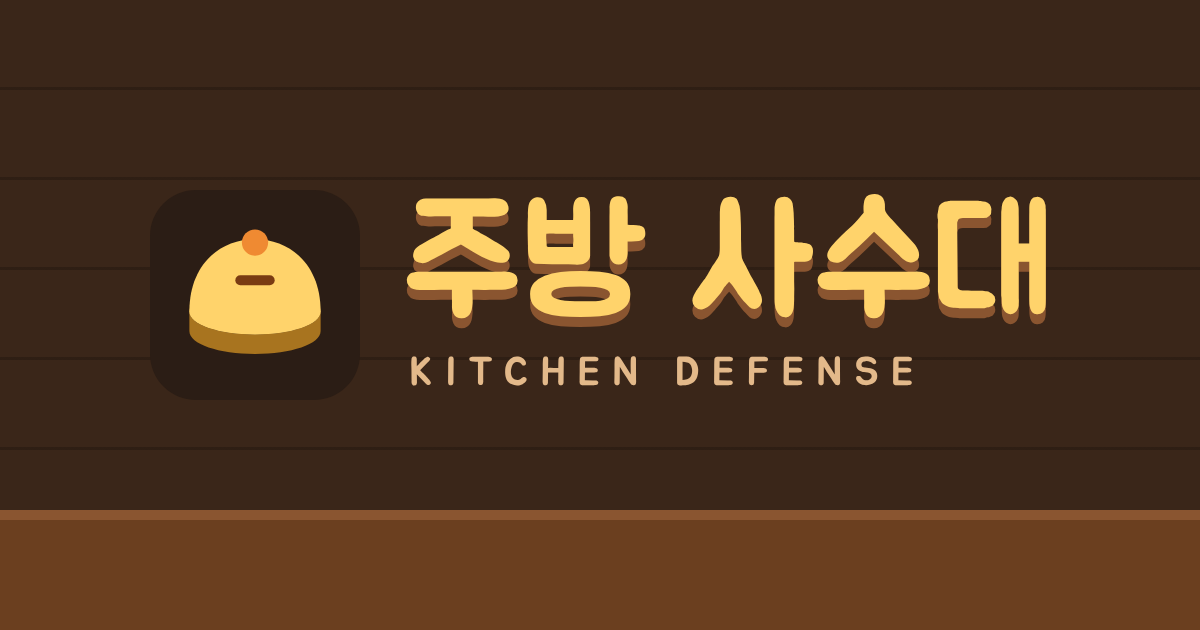
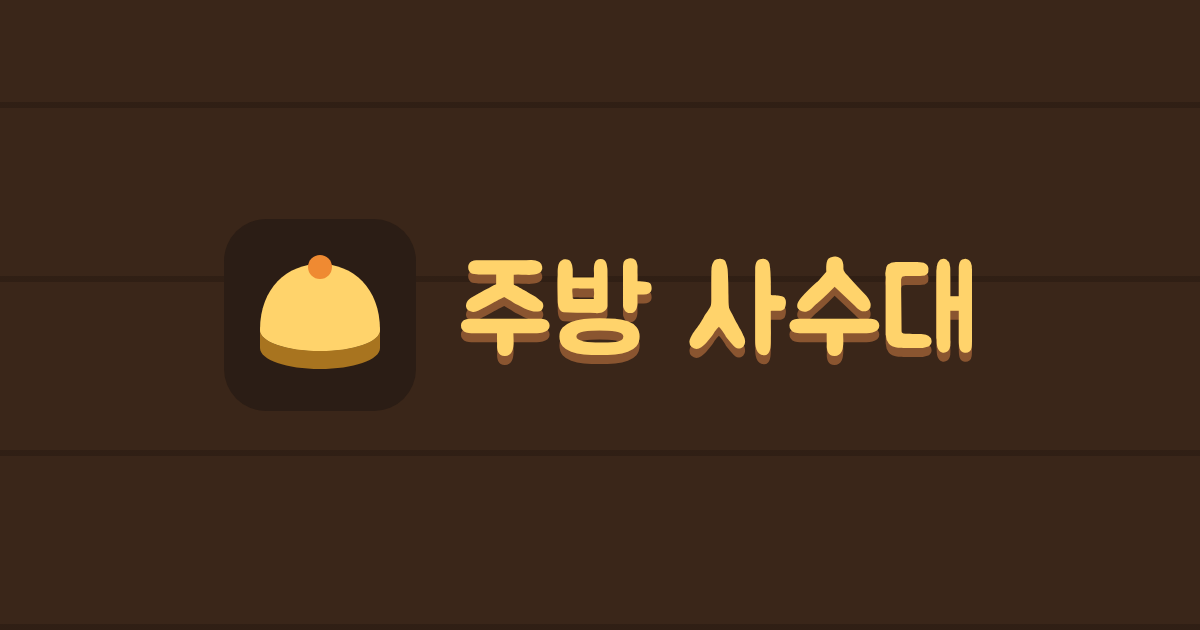
주방 사수대: 시안 1번 그대로 다시 적용 + 타워 최대 15개 (#1924)
첫 화면·상단 표시·프로토타입 카드를 시안 1번과 같게. 타워 동시 설치 최대 15개(TMAX), 같이 하기는 방장 판정.

Changed region(s): [[0.0, 0.7841, 1.0, 1.0], [0.3392, 0.3016, 0.8942, 0.6333], [0.1542, 0.3619, 0.3392, 0.6032]]

diff --git a/prototypes/kitchendefense/index.html b/prototypes/kitchendefense/index.html
@@ -9,7 +9,7 @@
 <meta name="viewport" content="width=device-width,initial-scale=1,maximum-scale=1,user-scalable=no">
 <title>Kitchen Defense · 주방 사수대</title>
 <link rel="preconnect" href="https://fonts.googleapis.com">
-<link href="https://fonts.googleapis.com/css2?family=Jua&family=Noto+Sans+KR:wght@700;900&display=swap" rel="stylesheet">
+<link href="https://fonts.googleapis.com/css2?family=Jua&family=Gowun+Dodum&family=Noto+Sans+KR:wght@700;900&display=swap" rel="stylesheet">
 <style>
 html,body{margin:0;height:100%;background:#2b1d15;overflow:hidden}
 body{display:flex;align-items:center;justify-content:center}
@@ -28,6 +28,8 @@ canvas{display:block;touch-action:none;user-select:none;-webkit-user-select:none
 <script>
 'use strict';
 const W=960,H=660,TS=60,MY=40,COLS=16,ROWS=8;
+const TMAX=15;/* 동시에 설치할 수 있는 타워 수 (같이 하기는 모두 합쳐서) */
+const tFull=()=>G.towers.length>=TMAX;
 const cv=document.getElementById('c');let g=cv.getContext('2d');
 cv.width=W;cv.height=H;
 {const CP=CanvasRenderingContext2D.prototype;if(!CP.roundRect)CP.roundRect=function(x,y,w,h,r){this.moveTo(x+r,y);this.arcTo(x+w,y,x+w,y+h,r);this.arcTo(x+w,y+h,x,y+h,r);this.arcTo(x,y+h,x,y,r);this.arcTo(x,y,x+w,y,r);this.closePath()}}
@@ -115,7 +117,7 @@ const BUT='#ffd36b',LEDGE='#b8892e',INK='#2b1d15',CREAM='#f6ead6',TAN='#e3b98a';
 function btn(x,y,w,h,label,o={}){
   const hov=mouse.x>=x&&mouse.x<=x+w&&mouse.y>=y&&mouse.y<=y+h;
   if(hov)hoverAny=true;
-  const ghost=o.ghost,soft=!ghost&&GHOSTC[o.col],press=hov&&click,yy=y+(press?2:0),r=Math.min(14,h/2);
+  const ghost=o.ghost,soft=!ghost&&GHOSTC[o.col],press=hov&&click,yy=y+(press?2:0),r=o.r||Math.min(14,h/2);
   let tc='#fff',sh='';
   g.save();g.lineWidth=1.5;
   if(o.on){
@@ -123,12 +125,12 @@ function btn(x,y,w,h,label,o={}){
   }else if(o.dim){
     g.beginPath();g.roundRect(x,yy,w,h,r);g.fillStyle='rgba(246,234,214,.05)';g.fill();g.strokeStyle='rgba(227,185,138,.16)';g.stroke();tc='#a39685';
   }else if(ghost){
-    g.beginPath();g.roundRect(x+1,yy+1,w-2,h-2,r);g.fillStyle=hov?'rgba(246,234,214,.10)':'rgba(43,29,21,.25)';g.fill();g.lineWidth=2;g.strokeStyle=hov?CREAM:TAN;g.stroke();tc=CREAM;
+    g.beginPath();g.roundRect(x+1,yy+1,w-2,h-2,r);if(hov){g.fillStyle='rgba(246,234,214,.10)';g.fill()}g.lineWidth=o.bw||2;g.strokeStyle=hov?CREAM:TAN;g.stroke();tc=CREAM;
   }else if(soft){
     g.beginPath();g.roundRect(x,yy,w,h,r);g.fillStyle=hov?'rgba(246,234,214,.2)':'rgba(246,234,214,.12)';g.fill();tc=CREAM;
   }else{
     const def=!o.col||o.col==='#ff9a3c',base=def?BUT:(PAL[o.col]||o.col);
-    if(!press){g.beginPath();g.roundRect(x,y+4,w,h,r);g.fillStyle=def?LEDGE:shade(base,-60);g.fill()}
+    if(!press){g.beginPath();g.roundRect(x,y+(o.lg||4),w,h,r);g.fillStyle=def?LEDGE:shade(base,-60);g.fill()}
     g.beginPath();g.roundRect(x,yy+(press?2:0),w,h,r);g.fillStyle=hov?shade(base,16):base;g.fill();
     if(def)tc=INK;
   }
@@ -136,14 +138,14 @@ function btn(x,y,w,h,label,o={}){
   const lines=String(label).split('\n'),fs=o.fs||24,cx=x+w/2+(o.pad||0);
   lines.forEach((ln,i)=>{
     const ty=yy+h/2+(i-(lines.length-1)/2)*(fs*1.12),sz=i?fs*.82:fs;
-    if(sh)txt(ln,cx,ty+1.5,sz,sh,'center','');
-    txt(ln,cx,ty,sz,i&&!o.on&&!o.dim?(o.c2||(sh?'rgba(255,255,255,.88)':'#d9c3a0')):tc,'center','');
+    if(sh)txt(ln,cx,ty+1.5,sz,sh,'center','',0,true);
+    txt(ln,cx,ty,sz,i&&!o.on&&!o.dim?(o.c2||(sh?'rgba(255,255,255,.88)':'#d9c3a0')):tc,'center','',0,true);
   });
   if(click&&click.x>=x&&click.x<=x+w&&click.y>=y&&click.y<=y+h){click=null;blip();return true}
   return false;
 }
 function panel(x,y,w,h,r=14,a=.55){g.save();g.beginPath();g.roundRect(x,y,w,h,r);g.fillStyle='rgba(31,21,15,'+Math.min(.92,a+.2)+')';g.fill();g.lineWidth=1.5;g.strokeStyle='rgba(227,185,138,.22)';g.stroke();g.restore()}
-function chip(x,y,w,h){g.beginPath();g.roundRect(x,y,w,h,h/2);g.fillStyle='rgba(58,38,25,.88)';g.fill();g.lineWidth=1;g.strokeStyle='rgba(227,185,138,.22)';g.stroke()}
+function chip(x,y,w,h){g.beginPath();g.roundRect(x,y,w,h,h/2);g.fillStyle='#3a2619';g.fill()}
 function heading(s,x,y,size){txt(s,x,y+Math.max(4,size*.06),size,'#8a5530','center','');txt(s,x,y,size,BUT,'center','')}
 let toastMsg='',toastT=0;
 function toast(m){toastMsg=m;toastT=2}
@@ -840,6 +842,7 @@ function exec(c,pid){
   if(c.k==='place'){
     if(!TD[c.type]||!G.unl.towers[c.type])return;
     if(BLOCK.has(c.c+','+c.r)||towerAt(c.c,c.r)){say('여긴 설치할 수 없어요');return}
+    if(tFull()){say('타워는 최대 '+TMAX+'개까지예요');return}
     const d=TD[c.type];
     if(G.coins<d.cost){say('코인이 부족해요');return}
     G.coins-=d.cost;const t=addTower(c.type,c.c,c.r);sfx(500,.1,'triangle',.3,200);burst(t.x,t.y+10,'#d8c8a8',8,60);
@@ -1197,10 +1200,10 @@ function tilesBG(){
   tilesBG0();
 }
 function tilesBG0(){
+  const k=W/760;
   g.fillStyle='#3a2619';g.fillRect(0,0,W,H);
-  for(let y=0,i=0;y<H;y+=58,i++){g.fillStyle=i%2?'rgba(255,230,190,.025)':'rgba(0,0,0,.05)';g.fillRect(0,y,W,58);g.fillStyle='rgba(0,0,0,.2)';g.fillRect(0,y+56,W,2);for(let k=0;k<3;k++){const sx=(i*311+k*347)%W;g.fillRect(sx,y,2,56)}}
-  g.fillStyle='#6b3f1f';g.fillRect(0,H-96,W,96);g.fillStyle='#8a5530';g.fillRect(0,H-102,W,6);
-  const gr=g.createRadialGradient(W*.4,H*.32,60,W*.4,H*.32,W*.8);gr.addColorStop(0,'rgba(255,190,110,.10)');gr.addColorStop(1,'rgba(0,0,0,.38)');g.fillStyle=gr;g.fillRect(0,0,W,H);
+  g.fillStyle='rgba(0,0,0,.18)';for(let y=H;y>0;y-=58*k)g.fillRect(0,y-2*k,W,2*k);
+  g.fillStyle='#6b3f1f';g.fillRect(0,H-120*k,W,120*k);g.fillStyle='#8a5530';g.fillRect(0,H-120*k,W,6*k);
 }
 function coin(x,y,r){
   g.beginPath();g.arc(x,y,r,0,7);g.fillStyle=lg(x-r,y-r,x+r,y+r,'#fff0a0','#ffd23c','#c8901c');g.fill();
@@ -1268,34 +1271,59 @@ function drawMap(){
 }
 
 /* ===== 장면: 메뉴 ===== */
-const menuFoods=[];
-for(let i=0;i<9;i++)menuFoods.push({k:['egg','carrot','melon','pepper','mushroom','cabbage'][i%6],x:rnd(0,640),y:rnd(250,H-50),sp:rnd(20,45),r:rnd(18,28),ph:rnd(0,6)});
+const LOGO_P=[new Path2D('M12 37v6c0 4 9 7 20 7s20-3 20-7v-6c0 4-9 7-20 7s-20-3-20-7z'),new Path2D('M12 37c0-14 9-22 20-22s20 8 20 22c0 4-9 7-20 7s-20-3-20-7z')];
+const TOM_L=new Path2D('M20 12c4 4 12 4 16 0l-8 8z'),GAR_P=new Path2D('M23 4c12 0 19 14 19 30s-8 24-19 24S4 50 4 34 11 4 23 4z');
+function drawLogo(x,y,sz){
+  g.save();g.translate(x,y);g.scale(sz/64,sz/64);
+  g.fillStyle='#2b1d15';g.beginPath();g.roundRect(0,0,64,64,14);g.fill();
+  g.fillStyle='#d9a441';g.beginPath();g.ellipse(32,37,20,7,0,0,7);g.fill();
+  g.fillStyle='#a8741f';g.fill(LOGO_P[0]);g.fillStyle='#ffd36b';g.fill(LOGO_P[1]);
+  g.fillStyle='#ef8a32';g.beginPath();g.arc(32,16,4,0,7);g.fill();
+  g.restore();
+}
+function spaced(str,x,y,size,col,sp){g.font=size+'px '+FONT;g.textAlign='left';g.textBaseline='middle';g.fillStyle=col;for(const ch of str){g.fillText(ch,x,y);x+=g.measureText(ch).width+sp}}
 let menuT=0;
 function sMenu(dt){
   menuT+=dt;setMap(0);tilesBG();
-  for(const f of menuFoods){
-    f.x+=f.sp*dt;if(f.x>660)f.x=-40;
-    const y=f.y+Math.sin(menuT*2+f.ph)*6;
-    ell(f.x,y+f.r,f.r*.8,f.r*.22,'rgba(0,0,0,.15)');
-    if(LOW){const sp=sprite(f.k,Math.round(f.r),-1);g.drawImage(sp.c,f.x-sp.h,y-sp.h,sp.h*2,sp.h*2)}else{drawBody(f.k,f.x,y,f.r);face(f.x,y+f.r*(FACEOFF[f.k]||0),f.r*.9)}
-  }
-  [...'주방 사수대'].forEach((ch,i)=>{if(ch===' ')return;g.save();g.translate(W/2+[-2.35,-1.35,0,0,1,2][i]*98+14,125+Math.sin(menuT*2.4+i*.8)*9);g.rotate(Math.sin(menuT*1.7+i)*.08);txt(ch,0,8,104,'#8a5530','center','');txt(ch,0,0,104,BUT,'center','');g.restore()});
-  drawHat(W/2+236,46+Math.sin(menuT*2.4+5)*9,1.3,.3);
-  txt(['반란 식재료로부터 냉장고를 지켜라!','달걀은 죄가 없다. 하지만 막아야 한다','오늘 저녁은 너희다','당근이 화났다','양배추왕이 온다...'][Math.floor(menuT/4)%5],W/2,205,26,'#f3dcb4','center','');
-  const bx=W-290;
-  if(btn(bx,245,250,70,'플레이',{fs:34}))scene='mode';
-  if(btn(bx,330,250,70,'강화',{fs:34,ghost:1}))scene='upgrade';
-  if(btn(bx,415,250,70,'도전과제',{fs:34,col:'#d9a441'}))scene='ach';
-  if(btn(bx,500,250,70,'설정',{fs:34,col:'#6aa8d8'})){scene='settings';resetAsk=false}
-  panel(24,H-86,216,62,14,.6);
-  txt('보유 PT  '+save.pt,42,H-66,20,'#ffe27a','left','');
-  txt('최고 웨이브  '+save.best,42,H-42,18,'#d9c3a0','left','');
+  const k=W/760,X=v=>v*k;
+  // 냉장고
+  const fx=X(554),fy=X(177),fw=X(150),fh=X(250);
+  g.save();g.beginPath();g.roundRect(fx,fy,fw,fh,X(16));g.clip();
+  g.fillStyle='#e9e1d2';g.fillRect(fx,fy,fw,fh);g.fillStyle='#c9bfae';g.fillRect(fx,fy+fh-X(6),fw,X(6));g.fillRect(fx,fy+X(84),fw,X(4));
+  g.fillStyle='#a69c8b';g.beginPath();g.roundRect(fx+X(14),fy+X(30),X(8),X(34),X(4));g.roundRect(fx+X(14),fy+X(112),X(8),X(50),X(4));g.fill();
+  g.restore();
+  // 토마토, 마늘
+  g.save();g.translate(X(330),X(523-112-56));g.scale(k,k);
+  g.fillStyle='#d9483b';g.beginPath();g.arc(28,32,22,0,7);g.fill();g.fillStyle='#5c9a3c';g.fill(TOM_L);
+  g.fillStyle='#2b1d15';g.beginPath();g.arc(21,30,3,0,7);g.arc(35,30,3,0,7);g.fill();g.restore();
+  g.save();g.translate(X(404),X(523-112-60));g.scale(k,k);
+  g.fillStyle='#f2ead8';g.fill(GAR_P);g.strokeStyle='#d6cdb8';g.lineWidth=2;g.beginPath();g.moveTo(23,4);g.lineTo(23,58);g.stroke();
+  g.fillStyle='#2b1d15';g.beginPath();g.arc(16,32,3,0,7);g.arc(30,32,3,0,7);g.fill();g.restore();
+  // 로고 + 제목 + 부제
+  const rowH=87.6,cy=64+rowH/2;
+  drawLogo(X(56),X(cy-38),X(76));
+  g.font=X(64)+'px '+FONT;g.textAlign='left';g.textBaseline='middle';
+  g.fillStyle='#8a5530';g.fillText('주방 사수대',X(148),X(96+4));g.fillStyle='#ffd36b';g.fillText('주방 사수대',X(148),X(96));
+  spaced('KITCHEN DEFENSE',X(148),X(64+66+10.8),X(18),'#e3b98a',X(18*.32));
+  // 버튼
+  const bx=X(56),bw=X(260);let by=X(64+rowH+22);
+  if(btn(bx,by,bw,X(52),'혼자 하기',{fs:X(22),r:X(14),lg:X(4)})){NET.pend='solo';scene='maps'}
+  by+=X(52+10);
+  if(btn(bx,by,bw,X(48),'같이 하기',{fs:X(20),r:X(14),ghost:1}))scene='mode';
+  by+=X(48+10);
+  const sw=(bw-X(10)*2)/3;
+  if(btn(bx,by,sw,X(44),'강화',{fs:X(17),r:X(12),col:'#d9a441'}))scene='upgrade';
+  if(btn(bx+sw+X(10),by,sw,X(44),'업적',{fs:X(17),r:X(12),col:'#d9a441'}))scene='ach';
+  if(btn(bx+(sw+X(10))*2,by,sw,X(44),'설정',{fs:X(17),r:X(12),col:'#6aa8d8'})){scene='settings';resetAsk=false}
+  // 최고 기록
+  g.font=X(13)+"px 'Gowun Dodum',"+FONT2;g.textAlign='left';g.textBaseline='middle';g.fillStyle='#e3c7a4';g.fillText('최고 기록 · '+save.best+'웨이브',X(56),X(523-20-9.75));
+  // 계정 · 칭호 (오른쪽 위)
   if(window.FFAuth){
     let u=null,nm='';try{u=FFAuth.user();if(u)nm=FFAuth.nickname()||''}catch(e){}
-    if(u){if(btn(24,20,210,44,'👤 '+(String(nm||'내 계정').slice(0,10)),{fs:18,col:'#6f8fb0'})){try{FFAuth.openProfile(u.id,{game:'kitchendefense'})}catch(e){}}}
-    else if(btn(24,20,150,44,'로그인',{fs:20,col:'#6f8fb0'})){try{FFAuth.openLogin()}catch(e){}}
+    if(u){if(btn(W-24-200,20,200,44,String(nm||'내 계정').slice(0,10),{fs:20,col:'#6f8fb0'})){try{FFAuth.openProfile(u.id,{game:'kitchendefense'})}catch(e){}}}
+    else if(btn(W-24-130,20,130,44,'로그인',{fs:20,col:'#6f8fb0'})){try{FFAuth.openLogin()}catch(e){}}
   }
-  const tt=ACH.find(a=>a.id===save.title);if(tt)txt('칭호  '+tt.t,30,84,18,'#ffd36b','left','');
+  const tt=ACH.find(a=>a.id===save.title);if(tt){g.font="16px 'Gowun Dodum',"+FONT2;g.textAlign='right';g.textBaseline='middle';g.fillStyle='#e3c7a4';g.fillText('칭호 · '+tt.t,W-26,84)}
 }
 
 function sDevice(){
@@ -1470,6 +1498,7 @@ function mapClick(x,y){
   if(G.sel){
     if(ex){G.sel=null;G.selT=ex;return}
     if(BLOCK.has(c+','+r)){toast('여긴 설치할 수 없어요');return}
+    if(tFull()){toast('타워는 최대 '+TMAX+'개까지예요');return}
     if(G.coins<TD[G.sel].cost){toast('코인이 부족해요');return}
     act({k:'place',type:G.sel,c,r});
   }else{G.selT=ex||null;if(!ex&&isTouch){const e=enemyAt(x,y);if(e){G.insp=e.id;G.inspT=G.t+3}else G.inspT=0}}
@@ -1600,10 +1629,8 @@ function playUI(dt){
     txt(b.s,0,0,76,b.boss?'#ff6b6b':'#fff3b0','center','#3b1d0a',14);
     txt(b.sub,0,56,34,b.boss?'#ffd23c':'#ffffff','center','#3b1d0a',8);g.restore();
   }
-  chip(8,5,86,30);txt('♥ '+G.hp,20,20,20,'#ff9a9a','left','');
-  chip(102,5,122,30);coin(120,20,9);txt(String(Math.floor(G.coins)),136,20,20,'#ffe27a','left','');
-  chip(232,5,112,30);txt('웨이브 '+G.wave,244,20,18,'#fff','left','');
-  if(G.coop)NET.ids.forEach((id,i)=>{const x=372+i*28;g.fillStyle=PCOL[id];g.beginPath();g.arc(x,20,10,0,7);g.fill();g.strokeStyle='#3b1d0a';g.lineWidth=2;g.stroke();txt(String(id+1),x,21,13,'#fff')});
+  let hx=8;for(const[l,c]of[['코인 '+Math.floor(G.coins),'#ffd36b'],['웨이브 '+G.wave,'#f6ead6'],['냉장고 '+G.hp,'#f19a8a'],['타워 '+G.towers.length+'/'+TMAX,tFull()?'#ffd36b':'#f6ead6']]){g.font='17px '+FONT;const w=g.measureText(l).width+20;g.beginPath();g.roundRect(hx,5,w,30,15);g.fillStyle='#3a2619';g.fill();txt(l,hx+10,21,17,c,'left','',0,true);hx+=w+6}
+  if(G.coop)NET.ids.forEach((id,i)=>{const x=hx+10+i*24;g.fillStyle=PCOL[id];g.beginPath();g.arc(x,20,10,0,7);g.fill();g.strokeStyle='#3b1d0a';g.lineWidth=2;g.stroke();txt(String(id+1),x,21,13,'#fff')});
   RES.forEach((k,i)=>{const x=500+i*75;chip(x,5,69,30);icon(k,x+16,20,10);txt(String(G.res[k]),x+32,20,18,'#fff','left','')});
   if(G.feast>0)txt('풍년 잔치! '+Math.ceil(G.feast)+'s',W/2,MY+70,26,'#8dff8d');
   const bs=G.over?null:G.enemies.find(e=>isBoss(e)&&!e.dead);
@@ -1666,7 +1693,7 @@ function playUI(dt){
     for(const id of TORDER){
       if(!G.unl.towers[id])continue;
       const d=TD[id];
-      if(btn(x,by+6,88,50,d.n+'\n'+d.cost,{on:G.sel===id,dim:G.coins<d.cost&&G.sel!==id,fs:17,ghost:1,c2:'#ffd36b'}))G.sel=G.sel===id?null:id;
+      if(btn(x,by+6,88,50,d.n+'\n'+d.cost,{on:G.sel===id,dim:(G.coins<d.cost||tFull())&&G.sel!==id,fs:17,ghost:1,c2:'#ffd36b'})){if(tFull()&&G.sel!==id)toast('타워는 최대 '+TMAX+'개까지예요');else G.sel=G.sel===id?null:id}
       x+=92;
     }
     const eb=earlyBonus(),wl=G.active?'진행 중…':'웨이브 '+(G.wave+1)+' 바로 시작\n'+Math.ceil(Math.max(0,G.next))+'초 후 자동'+(eb?' · 코인 +'+eb:'');
@@ -1678,7 +1705,9 @@ function playUI(dt){
       if(btn(726,by+70,108,50,'핑 도움',{fs:18,col:'#d65a5a',on:G.pingMode===2}))G.pingMode=G.pingMode===2?0:2;
     }
     let hint='';
+    if(G.sel&&tFull())G.sel=null;
     if(G.pingMode)hint='핑을 찍을 곳을 누르세요';
+    else if(tFull())hint='타워 최대 '+TMAX+'개 · 팔면 다시 설치할 수 있어요';
     else if(G.sel)hint='설치할 칸을 누르세요 (같은 버튼 = 취소)';
     else if(!G.towers.length)hint='타워를 고르고 칸을 눌러 설치하세요';
     if(hint)txt(hint,270,by+95,18,'#ffe27a','left','');

diff --git a/prototypes/index.html b/prototypes/index.html
@@ -13,7 +13,7 @@
 <link rel="icon" href="../favicon.svg" type="image/svg+xml">
 <link rel="preconnect" href="https://fonts.googleapis.com">
 <link rel="preconnect" href="https://fonts.gstatic.com" crossorigin>
-<link href="https://fonts.googleapis.com/css2?family=Oswald:wght@500;600;700&family=Noto+Sans+KR:wght@400;500;700;900&family=Press+Start+2P&display=swap" rel="stylesheet">
+<link href="https://fonts.googleapis.com/css2?family=Oswald:wght@500;600;700&family=Noto+Sans+KR:wght@400;500;700;900&family=Press+Start+2P&family=Jua&family=Gowun+Dodum&display=swap" rel="stylesheet">
 <script src="../ff-lang.js?v=20261114a"></script>
 <script id="i18n">
 /* Site translation (same 6 languages and the same saved choice as the game).
@@ -142,7 +142,7 @@ img{max-width:100%}
 </div>
 <section style="padding:28px 0 72px;display:flex;flex-direction:column;gap:22px">
 <h2 style="margin:0;font-family:'Oswald','Noto Sans KR',sans-serif;font-weight:600;font-size:28px;letter-spacing:.04em">시험 게임</h2>
-<div style="display:grid;grid-template-columns:repeat(auto-fit,minmax(280px,1fr));gap:16px"><a href="/games/prototypes/kitchendefense/" style="display:flex;flex-direction:column;border-radius:16px;overflow:hidden;background:rgba(23,23,23,.92);border:1px solid #2e2b25;min-width:0"><span style="display:flex;align-items:center;justify-content:center;width:100%;aspect-ratio:1200/630;background:linear-gradient(135deg,#2b1d15,#6b3f1f)"><img src="/games/prototypes/kitchendefense/card.png" alt="Kitchen Defense" style="width:100%;height:100%;object-fit:cover;display:block"></span><span style="padding:18px 20px 20px;display:flex;flex-direction:column;gap:6px"><b style="font-family:'Oswald',sans-serif;font-size:22px;letter-spacing:.04em">Kitchen Defense</b><span style="font-size:14px;line-height:1.6;color:#a39c8c">반란을 일으킨 식재료들로부터 냉장고를 지키는 타워 디펜스예요. 혼자 또는 최대 4명이 함께 해요.</span></span></a><div style="visibility:hidden;aspect-ratio:1200/630"></div><div style="visibility:hidden;aspect-ratio:1200/630"></div></div>
+<div style="display:grid;grid-template-columns:repeat(auto-fit,minmax(280px,1fr));gap:16px"><a href="/games/prototypes/kitchendefense/" style="display:flex;flex-direction:column;border-radius:14px;overflow:hidden;background:#171310;border:1px solid #3a2a1e;min-width:0"><span style="display:flex;align-items:center;justify-content:center;width:100%;aspect-ratio:1200/630;background:linear-gradient(135deg,#2b1d15,#6b3f1f)"><img src="/games/prototypes/kitchendefense/card.png" alt="Kitchen Defense" style="width:100%;height:100%;object-fit:cover;display:block"></span><span style="padding:14px 16px;display:flex;flex-direction:column;gap:4px"><b style="font-family:'Jua',sans-serif;font-weight:400;font-size:20px;color:#f6ead6">Kitchen Defense</b><span style="font-family:'Gowun Dodum',sans-serif;font-size:13px;line-height:1.6;color:#b5a48e">반란을 일으킨 식재료들로부터 냉장고를 지켜요.</span></span></a><div style="visibility:hidden;aspect-ratio:1200/630"></div><div style="visibility:hidden;aspect-ratio:1200/630"></div></div>
 </section>
 <div class="ffx-foot"><span>Made by Frenchfries777 with Claude AI</span> <span data-notr>Created by Frenchfries777</span> · <span class="ff-copy">© 2026 Frenchfries777 · <a href="https://creativecommons.org/licenses/by-nc-nd/4.0/deed.ko" target="_blank" rel="noopener">CC BY-NC-ND 4.0</a></span><nav class="fl"><a href="https://frenchfries777.com/lounge/">라운지</a><a href="https://frenchfries777.com/settings/">설정</a><a href="https://frenchfries777.com/patchnotes/">패치노트</a><a href="https://frenchfries777.com/wiki/">위키</a><a href="https://frenchfries777.com/music/">음악</a><a href="https://frenchfries777.com/community/#feedback">피드백</a><a href="https://github.com/frenchfries777mc" target="_blank" rel="noopener">GitHub</a></nav></div>
 </div>
